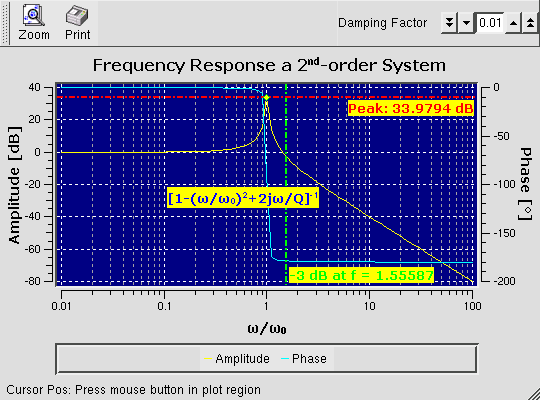
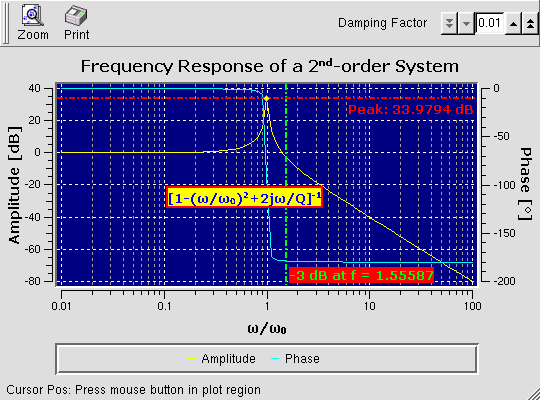
Updating examples

diff --git a/examples/BodeDemo.py.html b/examples/BodeDemo.py.html
@@ -113,7 +113,7 @@ zoom_xpm = [<font color=green>'32 32 8 1'</font>,
         fn = <font color=green>'luxy sans [b&amp;h]'</font> <font color=blue># ??</font>
         fn = <font color=green>'arial'</font>           <font color=blue># ??</font>
         fn = <font color=green>'verdana'</font>         <font color=blue># works best</font>
-        self.setTitle(<font color=green>'Frequency Response a 2&lt;sup&gt;nd&lt;/sub&gt;-order System'</font>)
+        self.setTitle(<font color=green>'Frequency Response of a 2&lt;sup&gt;nd&lt;/sup&gt;-order System'</font>)
         self.setTitleFont(QFont(fn, 16, QFont.Bold))
         
         self.setCanvasBackground(Qt.darkBlue)
@@ -159,26 +159,30 @@ zoom_xpm = [<font color=green>'32 32 8 1'</font>,
         self.mrk1 = self.insertMarker()
         self.setMarkerLineStyle(self.mrk1, QwtMarker.VLine)
         self.setMarkerPos(self.mrk1, 0.0, 0.0)
+        self.setMarkerLinePen(self.mrk1, QPen(Qt.green, 2, Qt.DashDotLine))
         self.setMarkerLabelAlign(self.mrk1, Qt.AlignRight | Qt.AlignBottom)
-        self.setMarkerPen(self.mrk1, QPen(Qt.green, 2, Qt.DashDotLine))
-        self.setMarkerFont(self.mrk1, QFont(fn, 12, QFont.Bold))
+        self.setMarkerLabel(self.mrk1, <font color=green>''</font>, QFont(fn, 12, QFont.Bold),
+                            Qt.green, QPen(Qt.NoPen), QBrush(Qt.red))
 
         self.mrk2 = self.insertLineMarker(<font color=green>''</font>, QwtPlot.yLeft)
+        self.setMarkerLinePen(self.mrk2, QPen(Qt.red, 2, Qt.DashDotLine))
         self.setMarkerLabelAlign(self.mrk2, Qt.AlignRight | Qt.AlignBottom)
-        self.setMarkerPen(self.mrk2, QPen(QColor(Qt.red), 2, Qt.DashDotLine))
-        self.setMarkerFont(self.mrk2, QFont(fn, 12, QFont.Bold))
+        self.setMarkerLabel(self.mrk2, <font color=green>''</font>, QFont(fn, 12, QFont.Bold),
+                            Qt.red, QPen(Qt.NoPen),
+                            QBrush(self.canvasBackground()))
         self.setMarkerSymbol(self.mrk2, QwtSymbol(
             QwtSymbol.Diamond, QBrush(Qt.yellow), QPen(Qt.green), QSize(7,7)))
 
         <font color=blue># text marker</font>
-        m = self.insertMarker(QString(
-            u<font color=green>'[1-(\u03c9/\u03c9&lt;sub&gt;0&lt;/sub&gt;)&lt;sup&gt;2&lt;/sup&gt;+2j\u03c9/Q]'</font>
-            <font color=green>'&lt;sup&gt;-1&lt;/sup&gt;'</font>))
+        m = self.insertMarker()
         self.setMarkerPos(m, 0.1, -20.0)
         self.setMarkerLabelAlign(m, Qt.AlignRight | Qt.AlignBottom)
-        self.setMarkerFont(m, QFont(fn, 12, QFont.Bold, False))
-        self.setMarkerPen(m, QPen(Qt.blue))
-        
+        self.setMarkerLabel(
+            m,
+            QString(u<font color=green>'[1-(\u03c9/\u03c9&lt;sub&gt;0&lt;/sub&gt;)&lt;sup&gt;2&lt;/sup&gt;+2j\u03c9/Q]'</font>
+                    <font color=green>'&lt;sup&gt;-1&lt;/sup&gt;'</font>),
+            QFont(fn, 12, QFont.Bold, False),
+            Qt.blue, QPen(Qt.red, 2), QBrush(Qt.yellow))
         self.setDamp(0.01)
             
 
@@ -195,10 +199,10 @@ zoom_xpm = [<font color=green>'32 32 8 1'</font>,
         i3 = argmax(where(less(a, -3.0), a, -100.0))
         f3 = f[i3] - (a[i3]+3.0)*(f[i3]-f[i3-1])/(a[i3]-a[i3-1])
         self.setMarkerPos(self.mrk1, f3, 0.0)
-        self.setMarkerLabel(self.mrk1, <font color=green>'-3 dB at f = %4g'</font> % f3)
+        self.setMarkerLabelText(self.mrk1, <font color=green>'-3 dB at f = %4g'</font> % f3)
         imax = argmax(a)
         self.setMarkerPos(self.mrk2, f[imax], a[imax]);
-        self.setMarkerLabel(self.mrk2, <font color=green>'Peak: %4g dB'</font> % a[imax])
+        self.setMarkerLabelText(self.mrk2, <font color=green>'Peak: %4g dB'</font> % a[imax])
 
         self.replot()
 
@@ -239,7 +243,6 @@ cursorInfo = <font color=green>'Cursor Pos: Press mouse button in plot region'</
         self.cntDamp.setRange(0.01, 5.0, 0.01)
         self.cntDamp.setValue(0.01)
     
-        <font color=blue>#self.toolBar(self.toolBar)</font>
         self.statusBar()
 
         self.showInfo(cursorInfo)
@@ -260,15 +263,19 @@ cursorInfo = <font color=green>'Cursor Pos: Press mouse button in plot region'</
 
     <b>def</b><font color=red> printPlot</font>(self):
         <b>try</b>:
-            p = QPrinter(QPrinter.HighResolution)
+            <font color=blue>#printer = QPrinter()</font>
+            <font color=blue>#printer = QPrinter(QPrinter.ScreenResolution)</font>
+            <font color=blue>#printer = QPrinter(QPrinter.PrinterResolution)</font>
+            printer = QPrinter(QPrinter.HighResolution)
+            <font color=blue>#printer = QPrinter(QPrinter.Compatible)</font>
         <b>except</b> AttributeError:
-            p = QPrinter()
-        p.setColorMode(QPrinter.Color)
-        p.setOutputToFile(True)
-        p.setOutputFileName(<font color=green>'test.ps'</font>)
-        <font color=blue>#p = QPrinter()</font>
-        <b>if</b> p.setup():
-            self.plot.printPlot(p);
+            printer = QPrinter()
+        printer.setOrientation(QPrinter.Landscape)
+        printer.setColorMode(QPrinter.Color)
+        printer.setOutputToFile(True)
+        printer.setOutputFileName(<font color=green>'test-%s.ps'</font> % qVersion())
+        <b>if</b> printer.setup():
+            self.plot.printPlot(printer)
 
     <b>def</b><font color=red> zoom</font>(self, on):
         <b>if</b> on:

diff --git a/examples/StackOrder.py.html b/examples/StackOrder.py.html
@@ -83,7 +83,7 @@
                             <font color=green>'right-click to unzoom'</font>,
                             self)
         self.plot.plotLayout().setCanvasMargin(0)
-        self.plot.plotLayout().setAlignCanvasToTicks(True)
+        self.plot.plotLayout().setAlignCanvasToScales(True)
         self.setCentralWidget(self.plot)
 
         self.__initToolBar()
